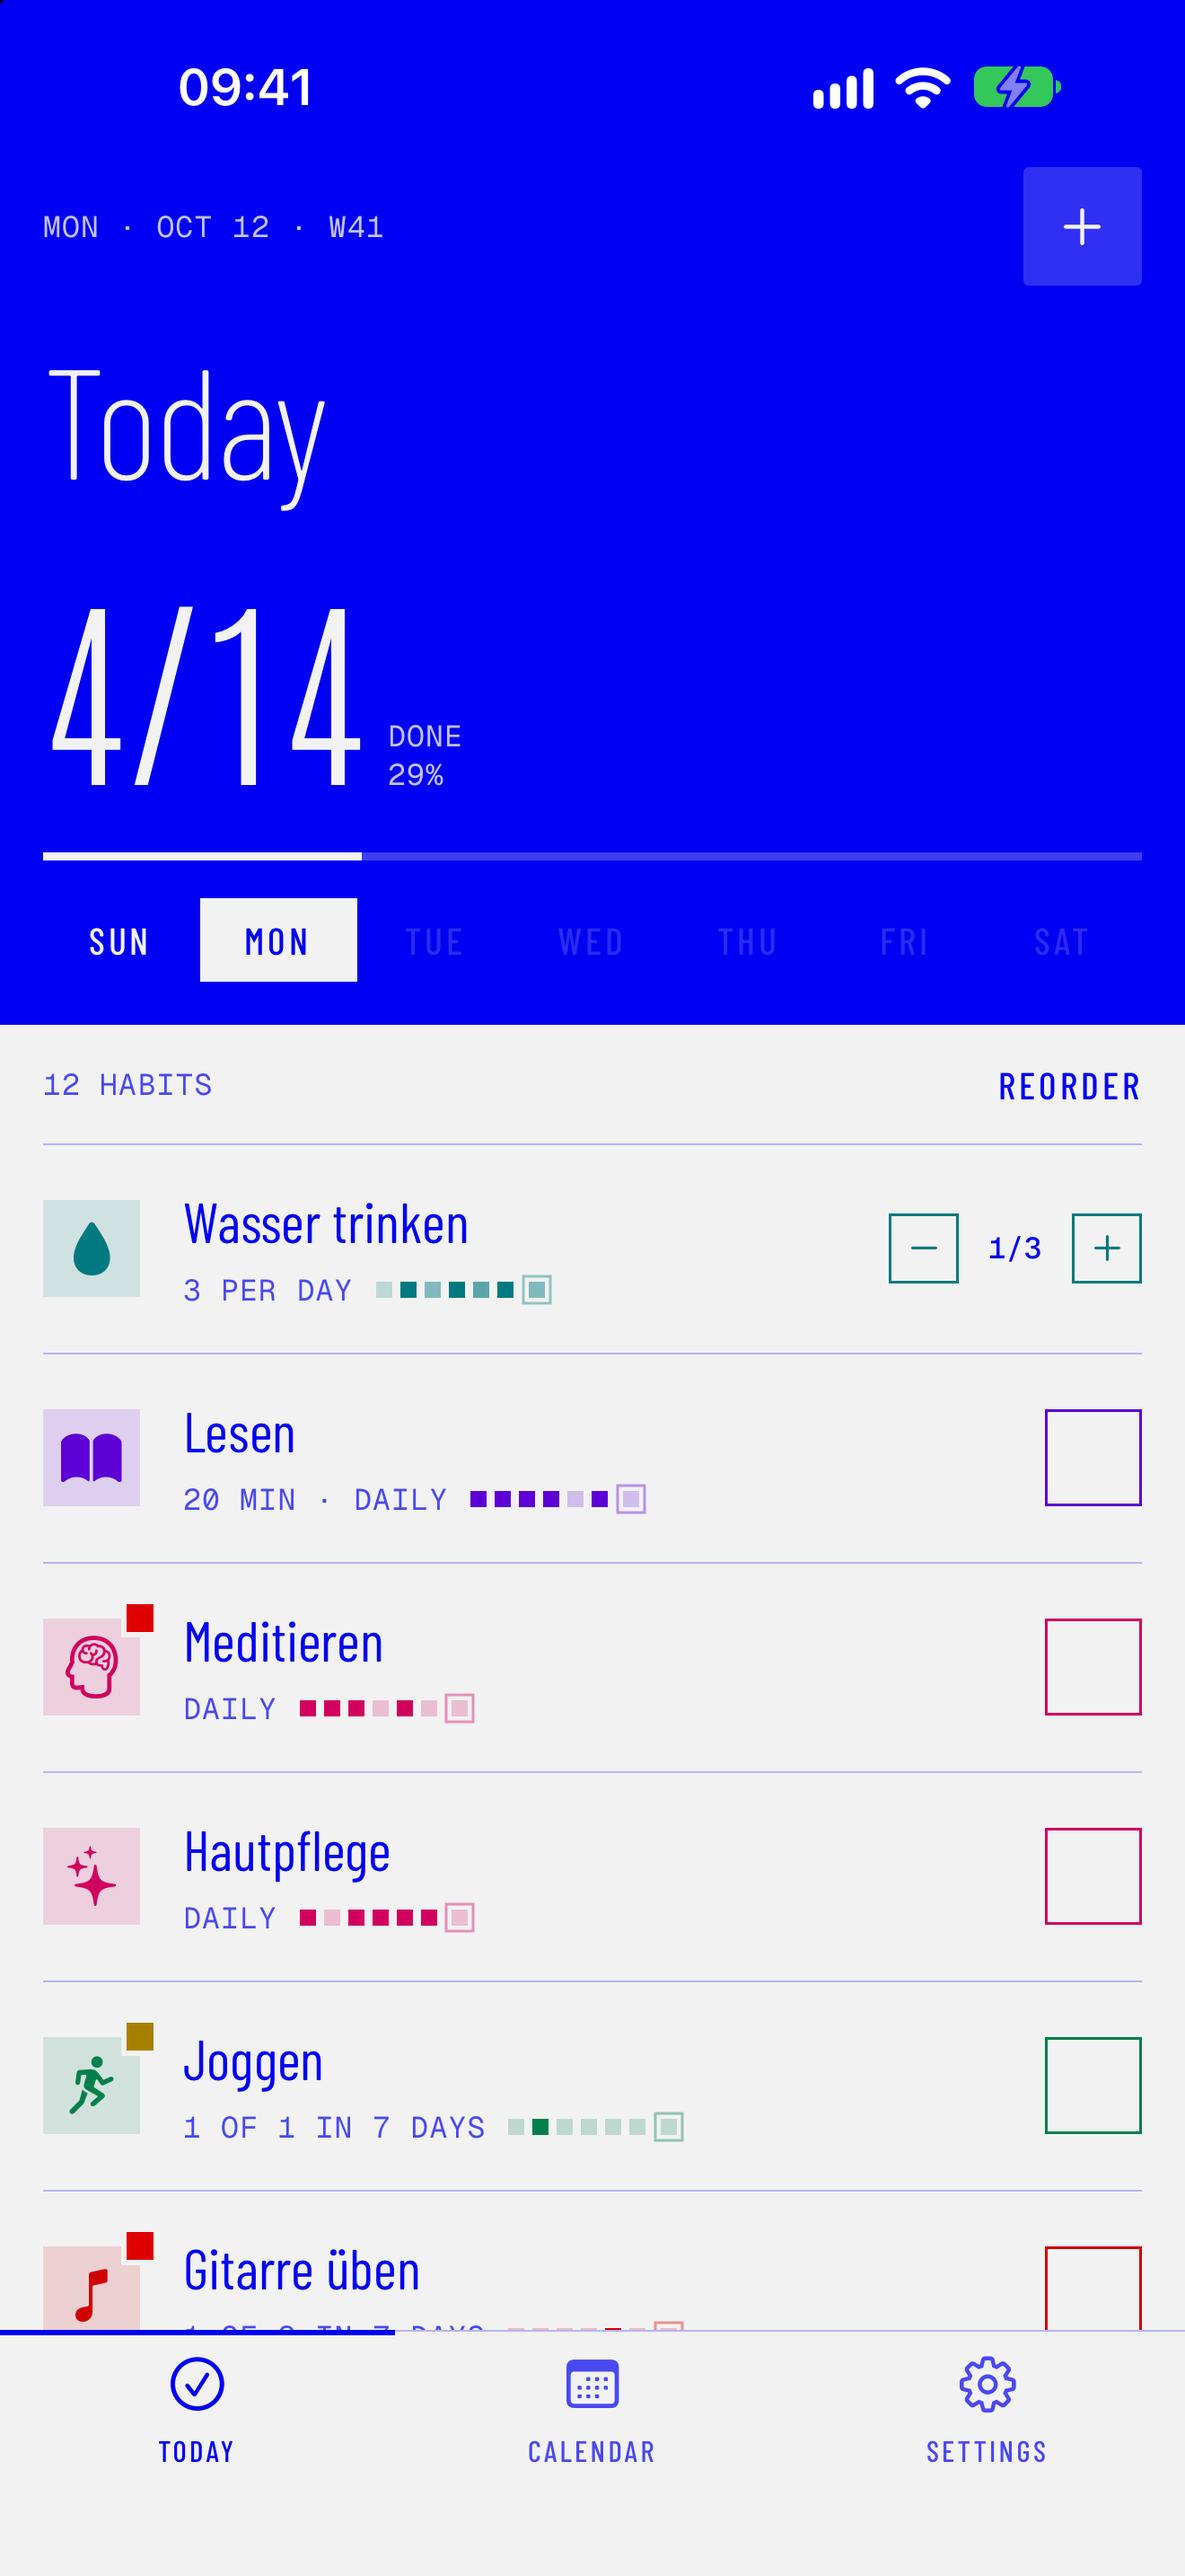
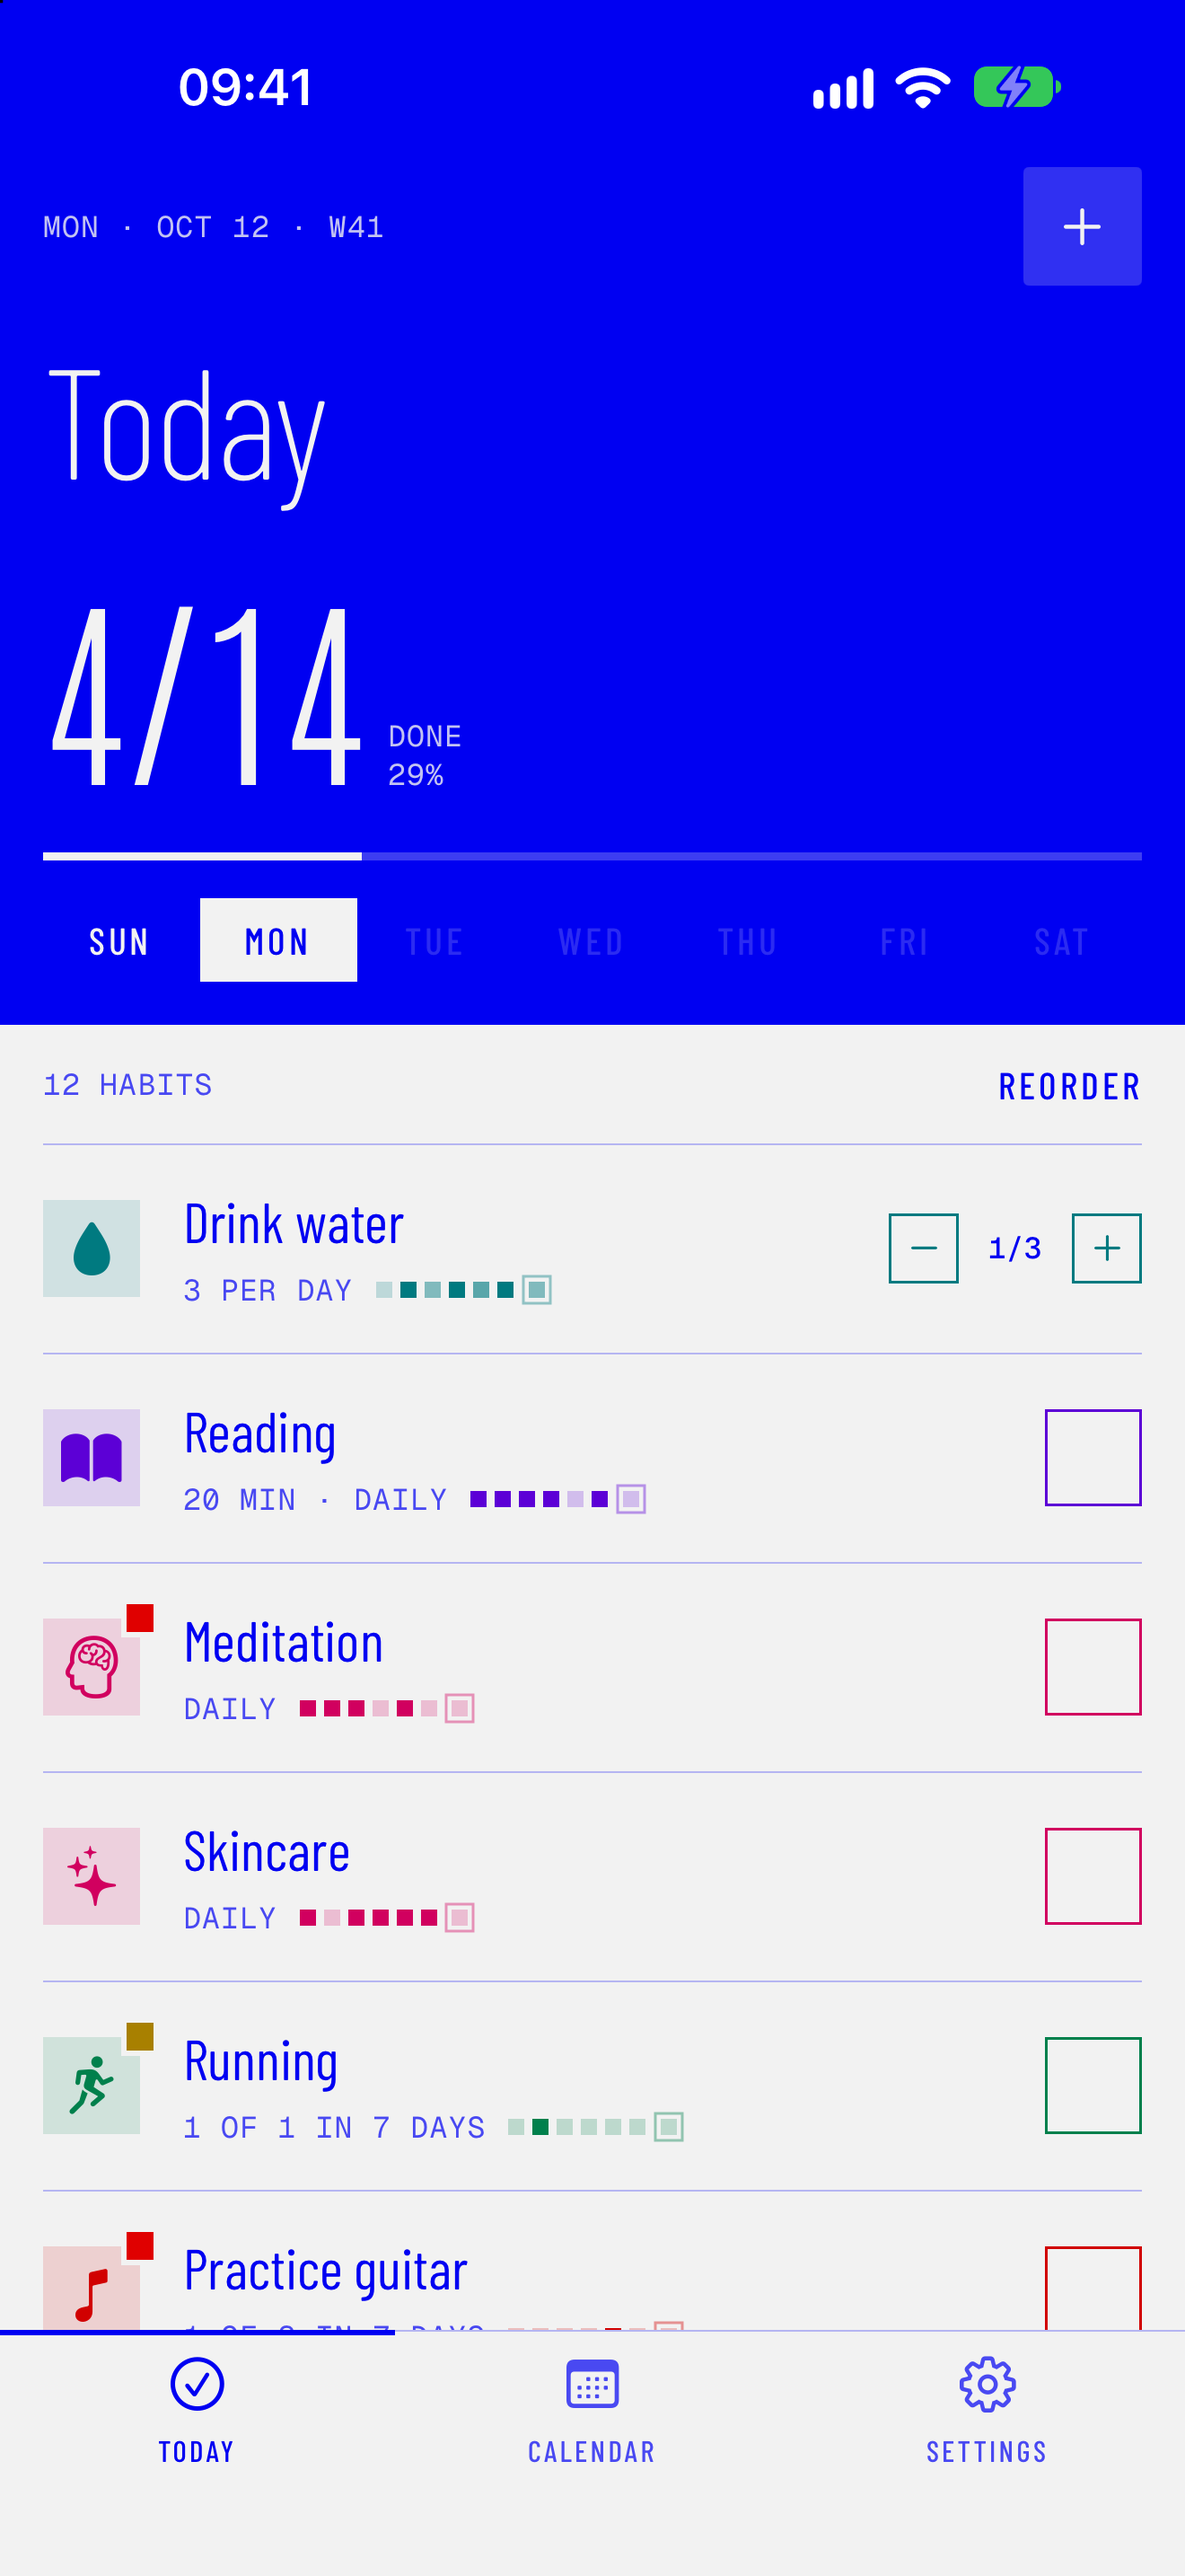
Phase 18: Englische Beispiel-Habits für die Store Screenshots
- Neues Debug Startargument -HestiaSampleEnglish übersetzt Namen und Zusatz der Testdaten
- Screenshots Heute, Detail und Kalender auf Englisch neu aufgenommen

diff --git a/Hestia/Debug/DebugData.swift b/Hestia/Debug/DebugData.swift
@@ -34,17 +34,28 @@ enum DebugData {
         let created = engine.calendar.date(byAdding: .day, value: -historyDays, to: today) ?? today
         let samples = samples(today: today, created: created, engine: engine)
 
+        // Startargument für Store Screenshots: englische Namen. Nicht mit `-HestiaSamplePauses` kombinieren, das sucht
+        // die Habits über die deutschen Namen.
+        let englishNames = ProcessInfo.processInfo.arguments.contains("-HestiaSampleEnglish")
+        let englishName = [
+            "Wasser trinken": "Drink water", "Lesen": "Reading", "Meditieren": "Meditation", "Vitamine": "Vitamins",
+            "Hautpflege": "Skincare", "Sport": "Workout", "Joggen": "Running", "Gitarre üben": "Practice guitar",
+            "Fenster putzen": "Clean windows", "Pflanzen düngen": "Fertilize plants", "Auto waschen": "Wash car",
+            "Tagebuch": "Journal", "Yoga": "Yoga", "Wäsche waschen": "Do laundry", "Blumen gießen": "Water flowers",
+            "Miete überweisen": "Pay rent", "Rechnungen prüfen": "Check bills",
+        ]
+
         var habits: [Habit] = []
         for (index, sample) in samples.enumerated() {
             let habit = Habit(
-                name: sample.name,
+                name: englishNames ? (englishName[sample.name] ?? sample.name) : sample.name,
                 iconName: sample.iconName,
                 colorKey: sample.color.rawValue,
                 rhythm: sample.rhythm,
                 targetCount: sample.target,
                 weekdays: sample.weekdays,
                 monthDay: sample.monthDay,
-                detail: sample.detail,
+                detail: englishNames ? sample.detail.replacingOccurrences(of: "Min", with: "min") : sample.detail,
                 // Eine Sekunde Abstand, damit die Reihenfolge in "Heute" fest ist.
                 createdAt: created.addingTimeInterval(TimeInterval(index))
             )
